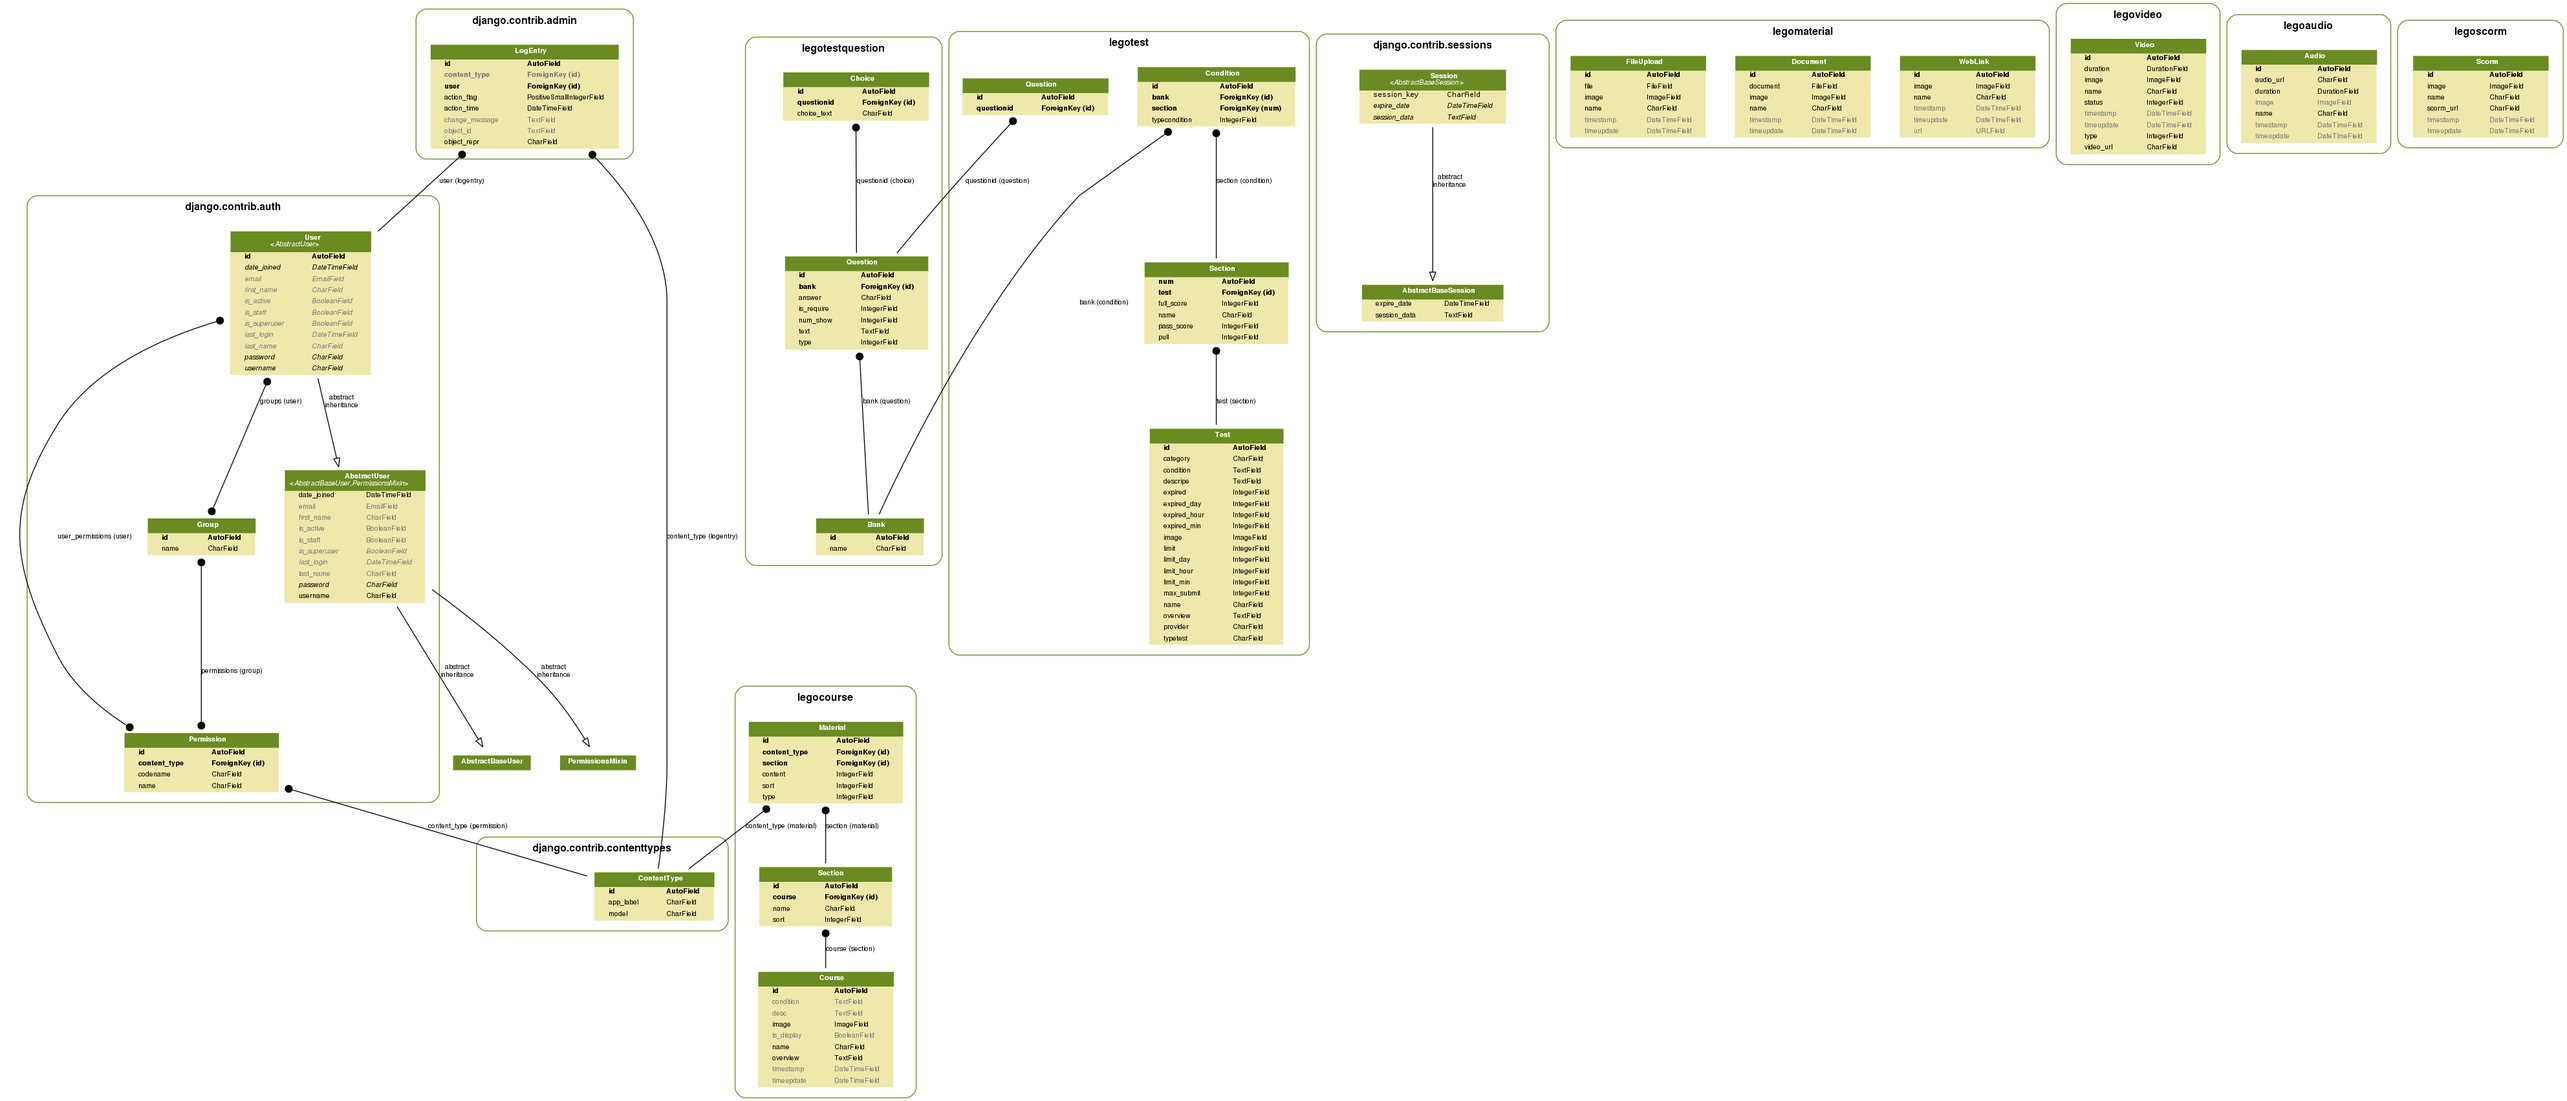
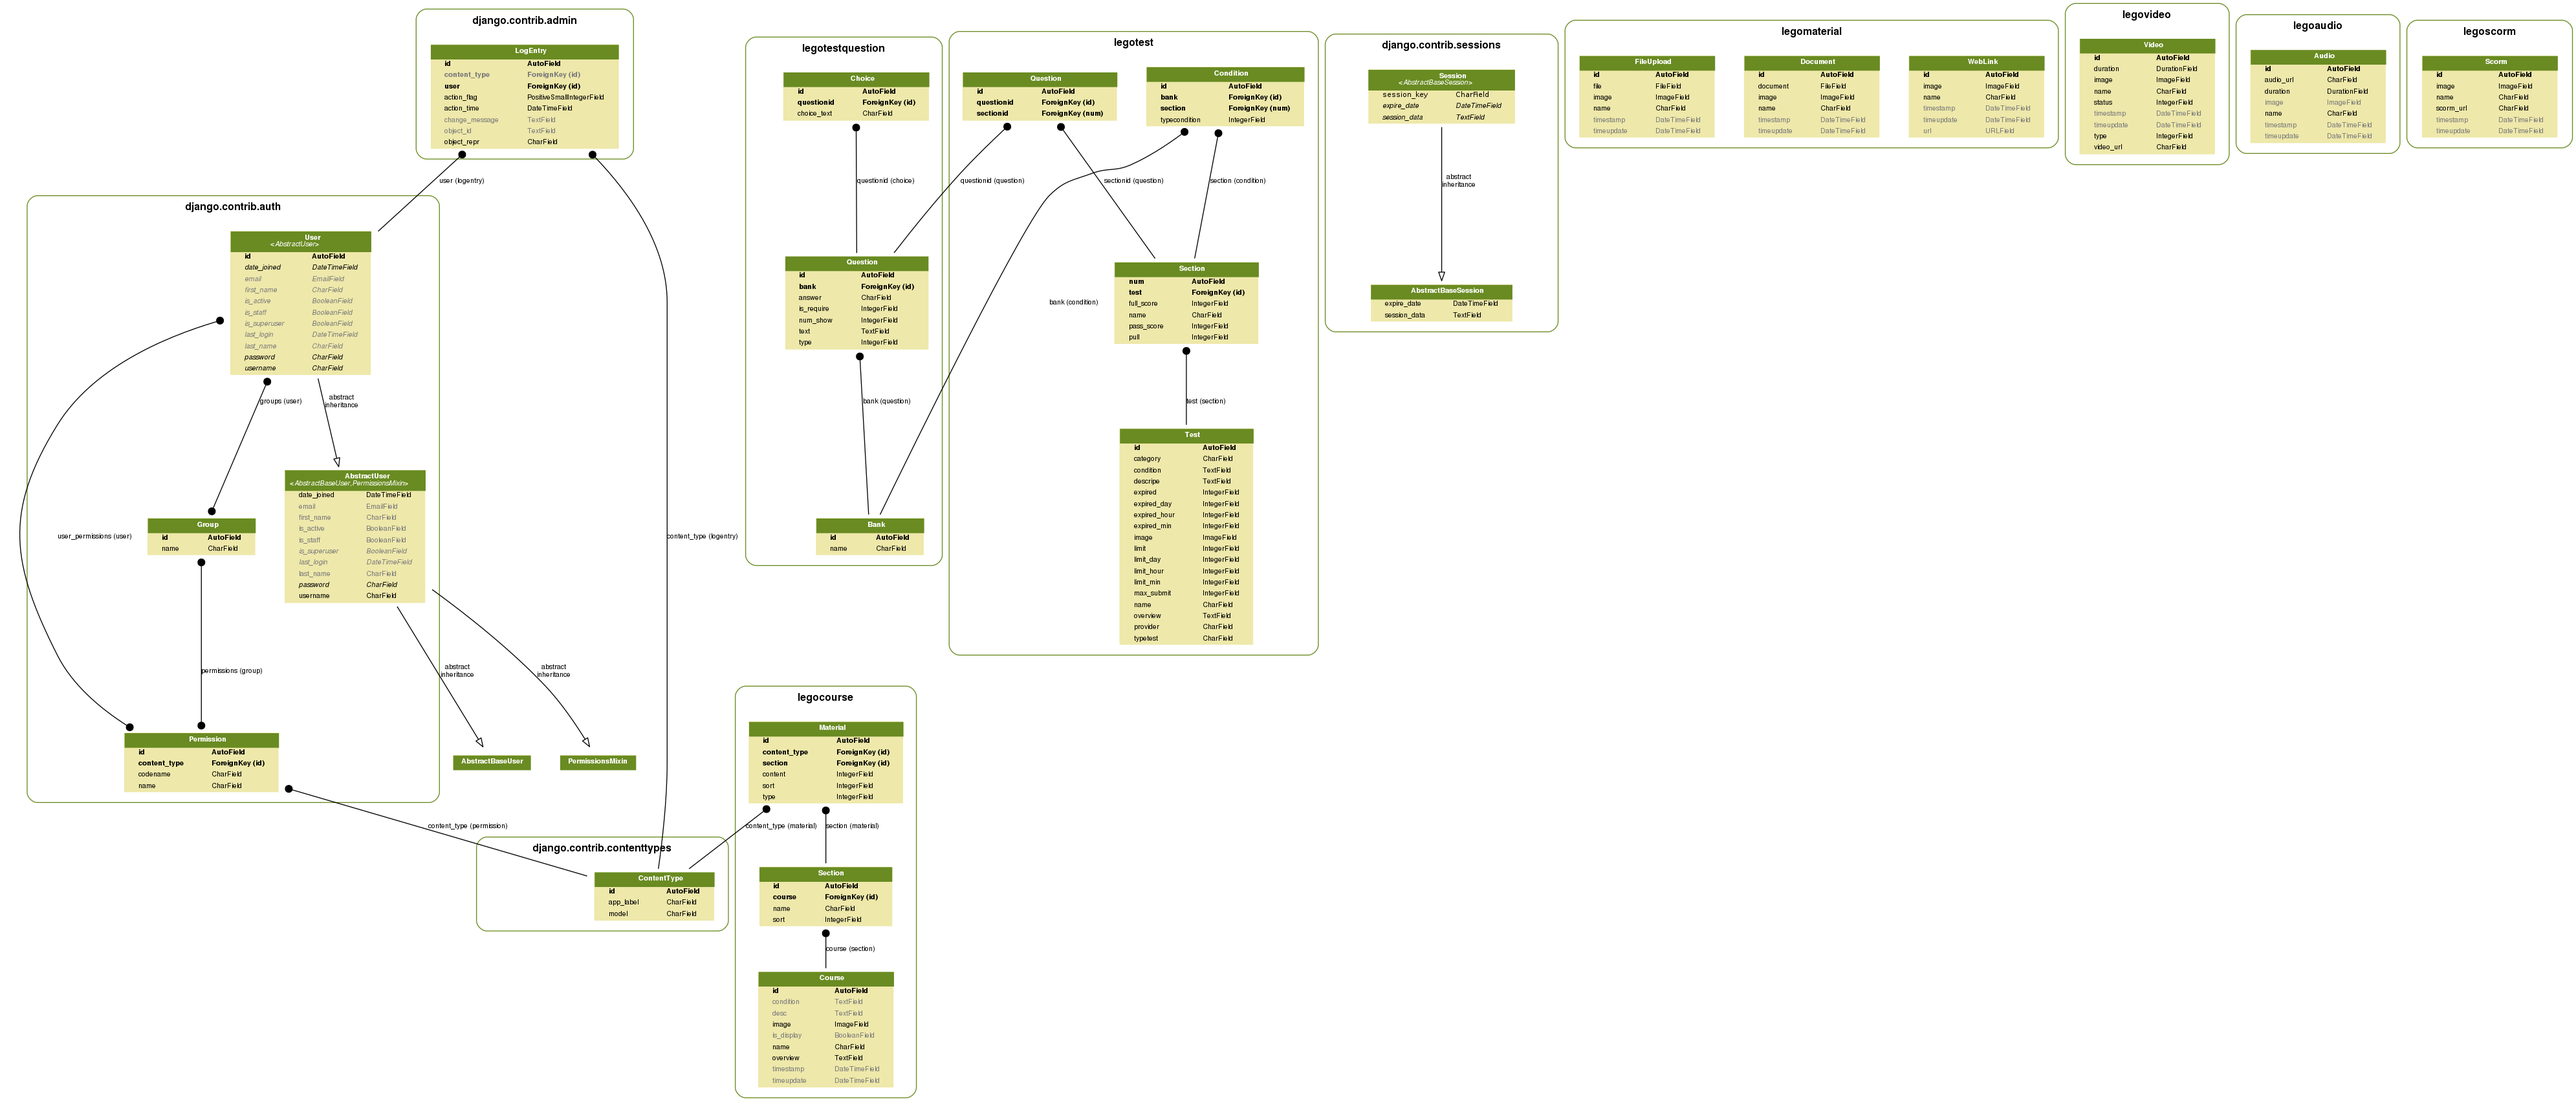
test get,post at lego/test

diff --git a/legotest/tests.py b/legotest/tests.py
@@ -1,9 +1,117 @@
-from django.test import TestCase
+from django.test import TestCase,Client
 from rest_framework.test import APIRequestFactory
 from legotest.models import Test
-from rest_framework.test import APITestCase
-
+from rest_framework.test import APITestCase,APIClient
+from django.contrib.auth.models import User
 # Create your tests here.
+
+class TestCase_Create(TestCase):
+	
+    def setUp(self):
+        self.client = APIClient()
+
+    # def test_by_default(self):
+    # # """
+    # # By default, the test client is CSRF exempt.
+    # # """
+    #     response = self.client.post('/lego/legotest/', {'name': 'Math Test', 
+    #                                 'typetest' : "Choice", 
+    #                                 'category' : "AIS Products", 
+    #                                 'overview' : "This is overview", 
+    #                                 'provider' : "Tlezip",
+    #                                 'conndition' : "This is condition detail",
+    #                                 'max_submit' : 5, 
+    #                                 'limit' : 0, 
+    #                                 'expired' : 0,
+    #                                 'descripe' : "This is descripe",}, format='json')
+    #     print(response.content)
+    #     assert response.status_code != 200
+
+    def test_get(self):
+        response = self.client.get('/api/test/')
+        assert response.status_code == 200
+        # print(response.content)
+
+    def test_post(self):
+        response = self.client.post('/api/test/', {'name': 'Math Test'}, format='json')
+        # print(response.status_code)
+        assert response.status_code == 403
+
+    def test_put(self):
+        response = self.client.put('/api/test/', {'name': 'Math Test'}, format='json')
+        assert response.status_code == 403
+
+    def test_patch(self):
+        response = self.client.patch('/api/test/', {'name': 'Math Test'}, format='json')
+        # print(response.status_code)
+        assert response.status_code == 403
+
+
+
+    # def test_csrf_exempt_by_default(self):
+    #     """
+    #     By default, the test client is CSRF exempt.
+    #     """
+    #     User.objects.create_user('example', 'example@example.com', 'password')
+    #     self.client.login(username='example', password='password') #general user
+    #     response = self.client.post('/home/')
+    #     assert response.status_code == 200
+
+    # def test_error_unrol(self):
+    #     User.objects.create_user('example', 'example@example.com', 'password')
+    #     self.client.login(username='example', password='password') #general user
+    #     response = self.client.post('/dashboard/')
+    #     assert response.status_code != 200
+
+
+    # def test_overview_toomuch_default(self):
+    # # """
+    # # By default, the test client is CSRF exempt.
+    # # """
+    #     response = self.client.post('/createtest/', {'name': 'Math Test', 
+    #                                 'typetest' : "Choice", 
+    #                                 'category' : "AIS Products", 
+    #                                 'overview' : "This is overviewdsfqwertyuiop[asdfghjkl;zxcvbnm,./azqwsxedcrfvtgbyhnujmik,ol.p;/['zqawsxedcrfvtgbyhnujmik,ol.p;/['aqswxedcrfvtgbyhnjmk,ol.p;/[azqswdefrgthyjumki,lo.;p/'[xscdefrgthyujki,lo.;p", 
+    #                                 'provider' : "Tlezip",
+    #                                 'conndition' : "This is condition detail",
+    #                                 'max_submit' : 5, 
+    #                                 'limit' : 0, 
+    #                                 'expired' : 0,
+    #                                 'descripe' : "This is descripe",}, format='json')
+    #     print(response.content)
+    #     assert response.status_code != 200 
+
+
+# class TestCase_CreateOnlyrequire(TestCase):
+    
+#     def setUp(self):
+#         self.client = APIClient()
+
+#     def test_csrf_exempt_by_default(self):
+#     # """
+#     # By default, the test client is CSRF exempt.
+#     # """
+#         response = self.client.post('/createtest/', {'name': 'Math Testfglkfd;lgdfklgkfdl;gkl;fdkgl;fdklg;fdlgkfldkg;lkfd;lgkdlf;kgl;fdkgl;dkfl;gl;dlfgdflg'}, format='json')
+#         assert response.status_code != 200 
+
+
+
+
+# c = Client()
+# response = c.post('/createtest/', {'name': 'Math Test', 
+# 									'typetest' : "Choice", 
+#  									'category' : "AIS Products", 
+#  									'overview' : "This is overview", 
+#  									'provider' : "Tlezip",
+#  									'conndition' : "This is condition detail",
+#  									'max_submit' : 5, 
+#  									'limit' : 0, 
+#  									'expired' : 0,
+#  									'descripe' : "This is descripe",})
+# response.status_code
+# response = c.get('/test/1/')
+# response.content
+
 
 # class TestCase_Create(APITestCase):
 # 	def test_creat_test(self):

diff --git a/legotest/models.py b/legotest/models.py
@@ -4,12 +4,12 @@ class Test(models.Model):
 	name = models.CharField(max_length=50) #Test Name
 	image = models.ImageField(upload_to = 'image/', null=True)
 	typetest = models.CharField(null = True , max_length=50)
-	category = models.CharField(max_length=50)
-	overview = models.TextField()
-	provider = models.CharField(max_length=50)
-	condition = models.TextField() # this is condition detail
-	max_submit = models.IntegerField() #จำนวนครั้งที่ให้สอบ
-	limit= models.IntegerField() #ระยะเวลาในการทำข้อสอบ
+	category = models.CharField(max_length=50, null=True)
+	overview = models.TextField(null=True)
+	provider = models.CharField(max_length=50, null=True)
+	condition = models.TextField(null=True) # this is condition detail
+	max_submit = models.IntegerField(default=0) #จำนวนครั้งที่ให้สอบ
+	limit= models.IntegerField(default=0) #ระยะเวลาในการทำข้อสอบ
 	limit_day = models.IntegerField(null=True)
 	limit_hour = models.IntegerField(null=True)
 	limit_min = models.IntegerField(null=True)
@@ -17,7 +17,7 @@ class Test(models.Model):
 	expired_day = models.IntegerField(null=True)
 	expired_hour = models.IntegerField(null=True)
 	expired_min = models.IntegerField(null=True)
-	descripe = models.TextField()
+	descripe = models.TextField(null=True)
 
 
 class Section(models.Model):
@@ -37,6 +37,7 @@ class Section(models.Model):
 
 class Question(models.Model):
     questionid = models.ForeignKey('legotestquestion.Question', null=True)
+    sectionid = models.ForeignKey('Section', null=True)
 	# sectionNum = models.ForeignKey(Section)
 	# typequestion = models.CharField(default = "Section.Type << how to do" , max_length=50)
 	# name = models.CharField(max_length=50)
@@ -48,6 +49,6 @@ class Condition(models.Model):
         (0, 'random'),
         (1, 'choose')
 	)
-	section = models.ForeignKey('Section')
+	section = models.ForeignKey('Section', null=True)
 	bank = models.ForeignKey('legotestquestion.Bank')
 	typecondition = models.IntegerField(choices=CONDITION_CHOICE)

diff --git a/legotest/migrations/0005_auto_20170616_0433.py b/legotest/migrations/0005_auto_20170616_0433.py
@@ -1,0 +1,50 @@
+# -*- coding: utf-8 -*-
+# Generated by Django 1.11.2 on 2017-06-16 04:33
+from __future__ import unicode_literals
+
+from django.db import migrations, models
+
+
+class Migration(migrations.Migration):
+
+    dependencies = [
+        ('legotest', '0004_auto_20170615_0722'),
+    ]
+
+    operations = [
+        migrations.AlterField(
+            model_name='test',
+            name='category',
+            field=models.CharField(max_length=50, null=True),
+        ),
+        migrations.AlterField(
+            model_name='test',
+            name='condition',
+            field=models.TextField(null=True),
+        ),
+        migrations.AlterField(
+            model_name='test',
+            name='descripe',
+            field=models.TextField(null=True),
+        ),
+        migrations.AlterField(
+            model_name='test',
+            name='limit',
+            field=models.IntegerField(default=0),
+        ),
+        migrations.AlterField(
+            model_name='test',
+            name='max_submit',
+            field=models.IntegerField(default=0),
+        ),
+        migrations.AlterField(
+            model_name='test',
+            name='overview',
+            field=models.TextField(null=True),
+        ),
+        migrations.AlterField(
+            model_name='test',
+            name='provider',
+            field=models.CharField(max_length=50, null=True),
+        ),
+    ]

diff --git a/lego/urls.py b/lego/urls.py
@@ -1,21 +1,15 @@
-"""Lego URL Configuration
-
-The `urlpatterns` list routes URLs to views. For more information please see:
-    https://docs.djangoproject.com/en/1.11/topics/http/urls/
-Examples:
-Function views
-    1. Add an import:  from my_app import views
-    2. Add a URL to urlpatterns:  url(r'^$', views.home, name='home')
-Class-based views
-    1. Add an import:  from other_app.views import Home
-    2. Add a URL to urlpatterns:  url(r'^$', Home.as_view(), name='home')
-Including another URLconf
-    1. Import the include() function: from django.conf.urls import url, include
-    2. Add a URL to urlpatterns:  url(r'^blog/', include('blog.urls'))
-"""
-from django.conf.urls import url
+from django.conf.urls import url, include
 from django.contrib import admin
+from legotest import views
+from django.contrib.auth.models import User
+from rest_framework import routers, serializers, viewsets
+from legotest.views import TestViewSet
+
+
+router = routers.DefaultRouter()
+router.register(r'test', views.TestViewSet)
 
 urlpatterns = [
-    url(r'^admin/', admin.site.urls),
+ 	url(r'^api/', include(router.urls)),
+    url(r'^api-auth/', include('rest_framework.urls', namespace='rest_framework')),
 ]

diff --git a/legotest/views.py b/legotest/views.py
@@ -1,4 +1,35 @@
 from django.shortcuts import render
-
+from django.http import HttpResponse, JsonResponse
+from django.views.decorators.csrf import csrf_exempt
+from rest_framework.renderers import JSONRenderer
+from rest_framework.parsers import JSONParser
+from legotest.models import Test
+from legotest.serializer import TestSerializer
+from rest_framework import viewsets
 
 # Create your views here.
+# @csrf_exempt
+# def request_detail(request):
+#     """
+#     Retrieve, update or delete a code snippet.
+#     """
+#     # try:
+#     #     snippet = Snippet.objects.get(pk=pk)
+#     # except Snippet.DoesNotExist:
+#     #     return HttpResponse(status=404)
+
+#     if request.method == 'GET':
+#         return HttpResponse(status=200)
+
+#     elif request.method == 'PUT':
+#         return HttpResponse(status=404)
+
+#     elif request.method == 'POST':
+#         return HttpResponse(status=404)
+
+#     elif request.method == 'PATCH':
+#         return HttpResponse(status=404)
+
+class TestViewSet(viewsets.ReadOnlyModelViewSet):
+    queryset = Test.objects.all()
+    serializer_class = TestSerializer

diff --git a/legotest/migrations/0007_auto_20170616_0500.py b/legotest/migrations/0007_auto_20170616_0500.py
@@ -1,0 +1,26 @@
+# -*- coding: utf-8 -*-
+# Generated by Django 1.11.2 on 2017-06-16 05:00
+from __future__ import unicode_literals
+
+from django.db import migrations, models
+import django.db.models.deletion
+
+
+class Migration(migrations.Migration):
+
+    dependencies = [
+        ('legotest', '0006_auto_20170616_0456'),
+    ]
+
+    operations = [
+        migrations.AddField(
+            model_name='condition',
+            name='Question',
+            field=models.ForeignKey(null=True, on_delete=django.db.models.deletion.CASCADE, to='legotest.Question'),
+        ),
+        migrations.AlterField(
+            model_name='condition',
+            name='section',
+            field=models.ForeignKey(null=True, on_delete=django.db.models.deletion.CASCADE, to='legotest.Section'),
+        ),
+    ]

diff --git a/legotest/migrations/0008_auto_20170616_0509.py b/legotest/migrations/0008_auto_20170616_0509.py
@@ -1,0 +1,25 @@
+# -*- coding: utf-8 -*-
+# Generated by Django 1.11.2 on 2017-06-16 05:09
+from __future__ import unicode_literals
+
+from django.db import migrations, models
+import django.db.models.deletion
+
+
+class Migration(migrations.Migration):
+
+    dependencies = [
+        ('legotest', '0007_auto_20170616_0500'),
+    ]
+
+    operations = [
+        migrations.RemoveField(
+            model_name='condition',
+            name='Question',
+        ),
+        migrations.AddField(
+            model_name='question',
+            name='sectionid',
+            field=models.ForeignKey(null=True, on_delete=django.db.models.deletion.CASCADE, to='legotest.Section'),
+        ),
+    ]

diff --git a/legotest/serializer.py b/legotest/serializer.py
@@ -1,0 +1,12 @@
+from rest_framework import serializers
+from legotest.models import Test,Section,Question,Condition
+from django.http import HttpResponse
+from rest_framework import viewsets
+
+class TestSerializer(serializers.Serializer):
+    name = serializers.IntegerField()
+    # title = serializers.CharField(required=False, allow_blank=True, max_length=100)
+    # code = serializers.CharField(style={'base_template': 'textarea.html'})
+    # linenos = serializers.BooleanField(required=False)
+    # language = serializers.ChoiceField(choices=LANGUAGE_CHOICES, default='python')
+    # style = serializers.ChoiceField(choices=STYLE_CHOICES, default='friendly')

diff --git a/legotest/migrations/0006_auto_20170616_0456.py b/legotest/migrations/0006_auto_20170616_0456.py
@@ -1,0 +1,21 @@
+# -*- coding: utf-8 -*-
+# Generated by Django 1.11.2 on 2017-06-16 04:56
+from __future__ import unicode_literals
+
+from django.db import migrations, models
+import django.db.models.deletion
+
+
+class Migration(migrations.Migration):
+
+    dependencies = [
+        ('legotest', '0005_auto_20170616_0433'),
+    ]
+
+    operations = [
+        migrations.AlterField(
+            model_name='condition',
+            name='section',
+            field=models.ForeignKey(null=True, on_delete=django.db.models.deletion.CASCADE, to='legotest.Question'),
+        ),
+    ]

diff --git a/legotestscore/models.py b/legotestscore/models.py
@@ -6,5 +6,5 @@ class score(models.Model):
 class scoresection(models.Model):
 	# userid = models.ForeignKey() Get from user table
 	testid = models.ForeignKey('legotest.Test')
-	sectionid = models.IntegerField()
+	sectionid = models.ForeignKey('legotest.Section')
 	score_section = models.IntegerField()

diff --git a/lego/settings.py b/lego/settings.py
@@ -49,7 +49,10 @@ INSTALLED_APPS = [
 ]
 
 REST_FRAMEWORK = {
-    'TEST_REQUEST_DEFAULT_FORMAT': 'json'
+    'TEST_REQUEST_DEFAULT_FORMAT': 'json',
+    'DEFAULT_PERMISSION_CLASSES': [
+        'rest_framework.permissions.DjangoModelPermissionsOrAnonReadOnly'
+    ]
 }
 
 GRAPH_MODELS = {
